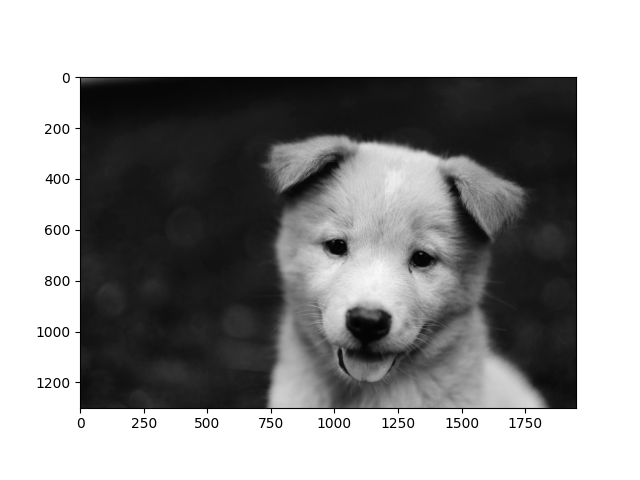
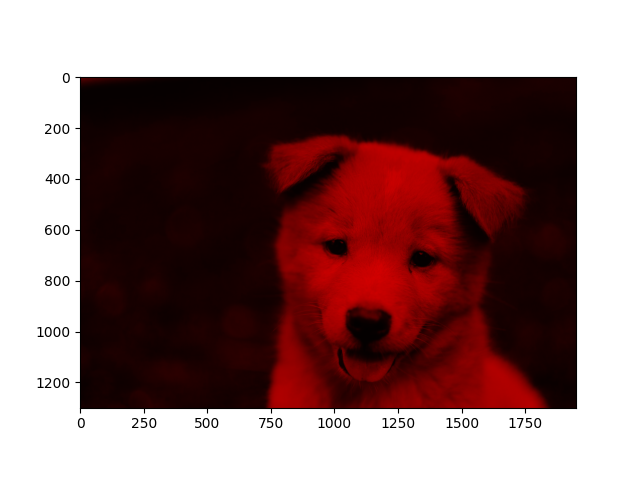
.

diff --git a/images_as_arrays/red_img.py b/images_as_arrays/red_img.py
@@ -1,0 +1,26 @@
+import numpy as np 
+import matplotlib.pyplot as plt
+from PIL import Image
+import subprocess
+
+pic = Image.open('/home/user/projects/image-processing-w-python/DATA/00-puppy.jpg')
+
+pic_arr = np.asarray(pic)
+
+pic_red = pic_arr.copy()
+
+#GREEN CHANNEL 
+print(pic_red[:,:,1])
+
+#R G B
+pic_red[:,:,1] = 0  #no green
+pic_red[:,:,2] = 0  #no blue
+
+print(pic_red.shape)  
+print(pic_red[:,:,1].shape)
+
+plt.imshow(pic_red)
+plt.savefig('/home/user/projects/image-processing-w-python/DATA/displayed_red_image.png')
+subprocess.run(['xdg-open', '/home/user/projects/image-processing-w-python/DATA/displayed_red_image.png'])
+
+
